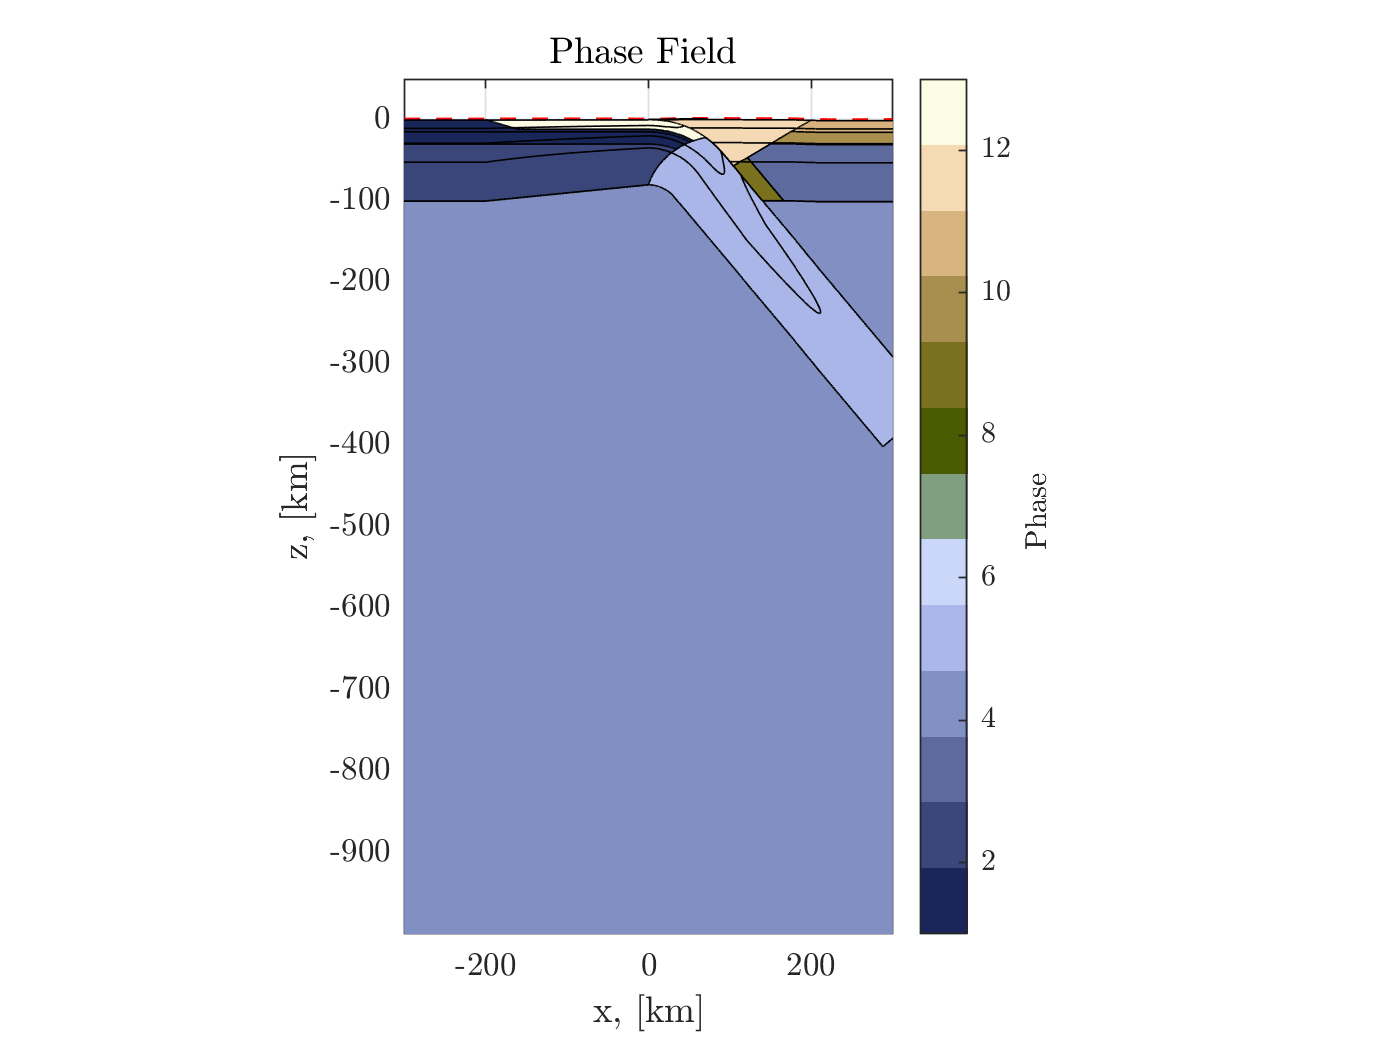
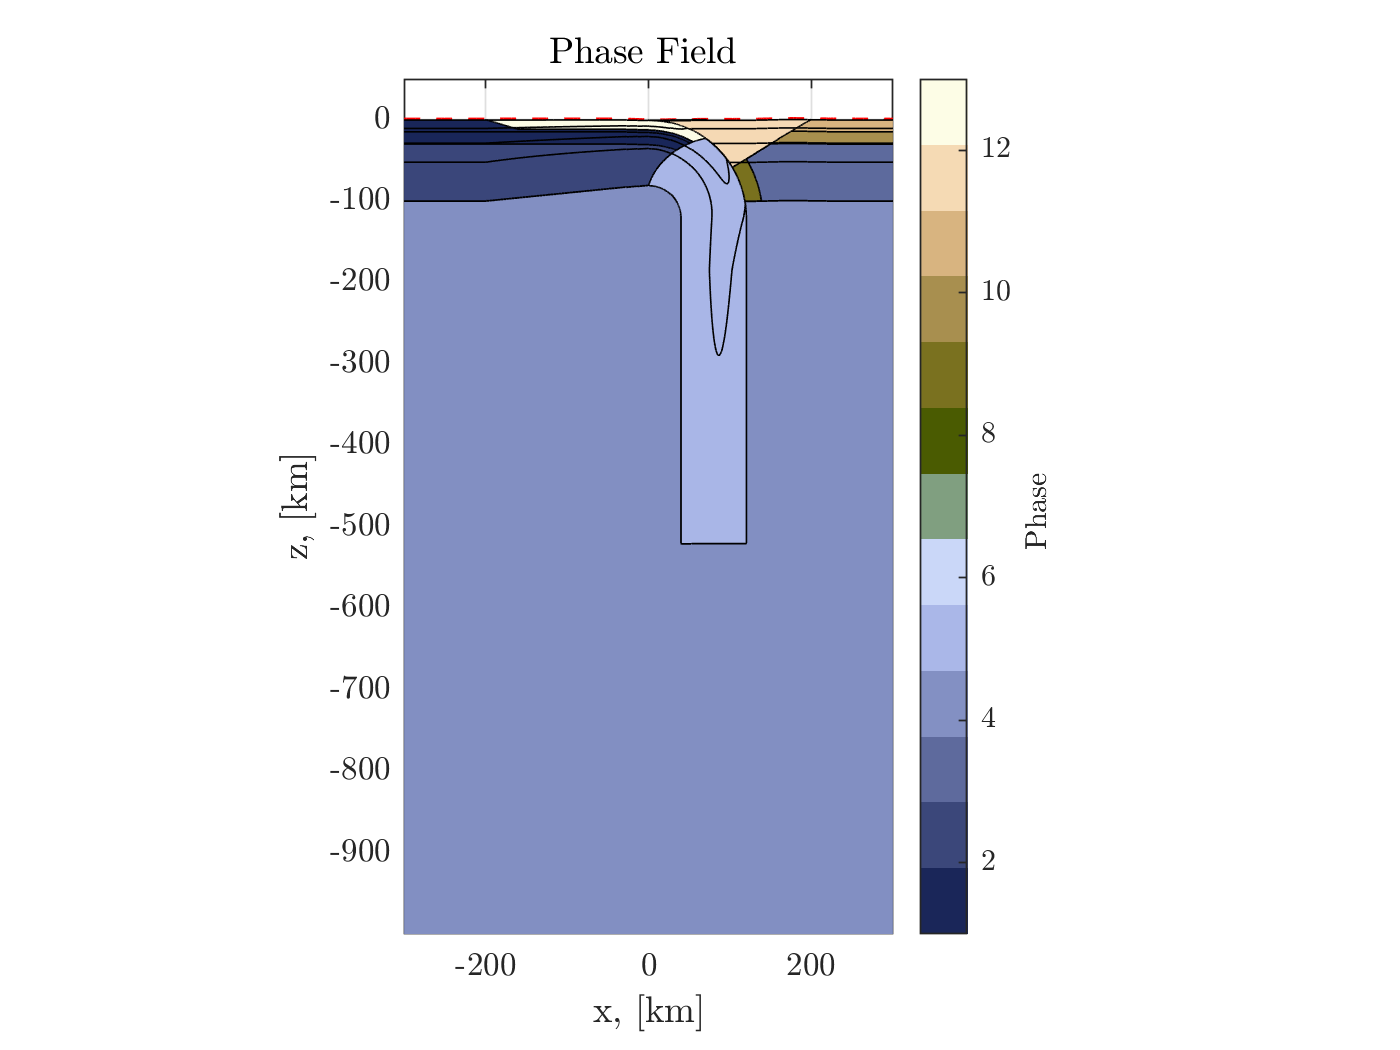
I Cannot get rid of euristic correction
Unfourtately I had no other choice.

Changed region(s): [[0.43, 0.0914, 0.645, 0.5181]]

diff --git a/Curry_Wurst_Slab_OBJECT.m b/Curry_Wurst_Slab_OBJECT.m
@@ -102,7 +102,7 @@ Continent2.Thermal_information = Thermal_information;
 T.Boundary = 0.0;
 T.Stratigraphy_Continental = continental_stratigraphy_s;
 T.Stratigraphy_Oceanic = oceanic_stratigraphy;
-T.theta = 50;
+T.theta = 90;
 T.D0   = 80; 
 T.L0   = 400; 
 T.Decoupling_depth = -100; 
